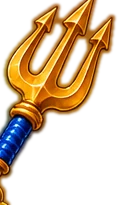
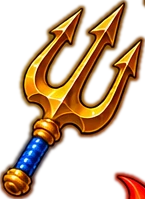
Walzen-Rendering-Bug behoben, Dreizack neu ausgeschnitten, neuer Drache
Der Streifen-Peek-Bug (Symbolfetzen über der Payline, z.B. Glocke bei
Fantasy Reels) kam von will-change:transform auf dem sehr hohen
gescrollten .strip-Element — der dafuer erzwungene GPU-Layer liess
Inhalte von ganz woanders im Streifen durchscheinen, obwohl .reel
overflow:hidden hat. Ohne will-change rastert der Browser normal und
clippt zuverlaessig.

Dreizack-Icon war am unteren Knauf abgeschnitten (Crop zu knapp),
neu mit Rand ausgeschnitten. Drachenmuenze-Rueckseite ist jetzt
hellgruen statt pink. Fantasy Reels bekommt einen neuen, eigenen
Drachenkopf statt des wiederverwendeten Medaillon-Drachens.

diff --git a/css/games.css b/css/games.css
@@ -15,7 +15,13 @@
 @keyframes blink{0%,100%{opacity:1;transform:scale(1)}50%{opacity:.28;transform:scale(.8)}}
 .reels{display:grid;grid-template-columns:repeat(3,1fr);gap:10px;background:#0a0018;border-radius:18px;padding:10px;border:3px solid rgba(255,255,255,.15)}
 .reel{height:120px;overflow:hidden;border-radius:14px;background:linear-gradient(180deg,#1c0138,#2e0a5c);position:relative;box-shadow:inset 0 12px 22px rgba(0,0,0,.85),inset 0 -12px 22px rgba(0,0,0,.85)}
-.strip{display:flex;flex-direction:column;will-change:transform}
+/* Kein will-change:transform hier: der Streifen ist bei vielen Zellen (bis zu
+   38 * 120px) sehr hoch, und der GPU-Layer, den will-change dafür erzwingt,
+   hat sichtbar Kacheln aus einer ganz anderen Stelle des Streifens am oberen
+   Rand durchscheinen lassen (z. B. ein Stück Glocke über der Payline), obwohl
+   .reel overflow:hidden hat. Ohne eigenen Compositor-Layer rastert der
+   Browser normal und clippt zuverlässig. */
+.strip{display:flex;flex-direction:column}
 .sym{height:120px;display:grid;place-items:center;flex:0 0 120px}
 /* Die Symbolbilder hingen an der globalen img.gk-ic-Regel (1em) statt an der
    Zellengröße — ohne eigenen Font-Size-Kontext macht das die Walzensymbole
@@ -121,7 +127,7 @@
   border:8px solid #b8860b;box-shadow:0 0 50px rgba(255,209,46,.65),inset 0 0 30px rgba(0,0,0,.4)
 }
 .coin-front{background:radial-gradient(circle at 35% 30%,#fff6b0,#ffd12e 45%,#c98a00)}
-.coin-back{background:radial-gradient(circle at 35% 30%,#ffb3f0,#ff2fd0 45%,#8b1a6e);transform:rotateY(180deg)}
+.coin-back{background:radial-gradient(circle at 35% 30%,#e3ffb0,#7cff3b 45%,#2d7a0e);transform:rotateY(180deg)}
 .side-pick{display:grid;grid-template-columns:1fr 1fr;gap:12px}
 .side-btn{
   cursor:pointer;border:3px solid var(--line);border-radius:18px;padding:18px 10px;

diff --git a/js/icons.js b/js/icons.js
@@ -407,7 +407,7 @@
      alle Spiele, Kacheln und Gewinntabellen. Namen ohne Bild (Schädel,
      Fragezeichen, Rad …) bleiben Vektor. */
   var SYMBOLS = ('bar bear bear2 bell cards cherry chest chip clover club coins crab crown ' +
-    'diamondsuit dragon fish flame gem gift heart horse1 horse2 horse3 horse4 horse5 ' +
+    'diamondsuit dragon dragonhead fish flame gem gift heart horse1 horse2 horse3 horse4 horse5 ' +
     'horsehead horseshoe iceberg kelp melon moneybag octopus pearl penguin penguin2 ' +
     'plum reeffish rocket seven shark shell shield spade star trident trophy ' +
     'floe').split(' ');

diff --git a/js/games/slots.js b/js/games/slots.js
@@ -10,7 +10,7 @@
     { id: 'clover', name: 'Klee',    w: 22, m3: 11,  m2: 0.7 },
     { id: 'bell',   name: 'Glocke',  w: 18, m3: 16,  m2: 0.8 },
     { id: 'star',   name: 'Stern',   w: 14, m3: 24,  m2: 1.0 },
-    { id: 'dragon', icon: 'dragonpurple', name: 'Drache', w: 10, m3: 35, m2: 1.3 },
+    { id: 'dragon', icon: 'dragonhead', name: 'Drache', w: 10, m3: 35, m2: 1.3 },
     { id: 'gem',    name: 'Juwel',   w: 7,  m3: 50,  m2: 1.8 },
     { id: 'crown',  name: 'Krone',   w: 3,  m3: 100, m2: 3.0 }
   ];
